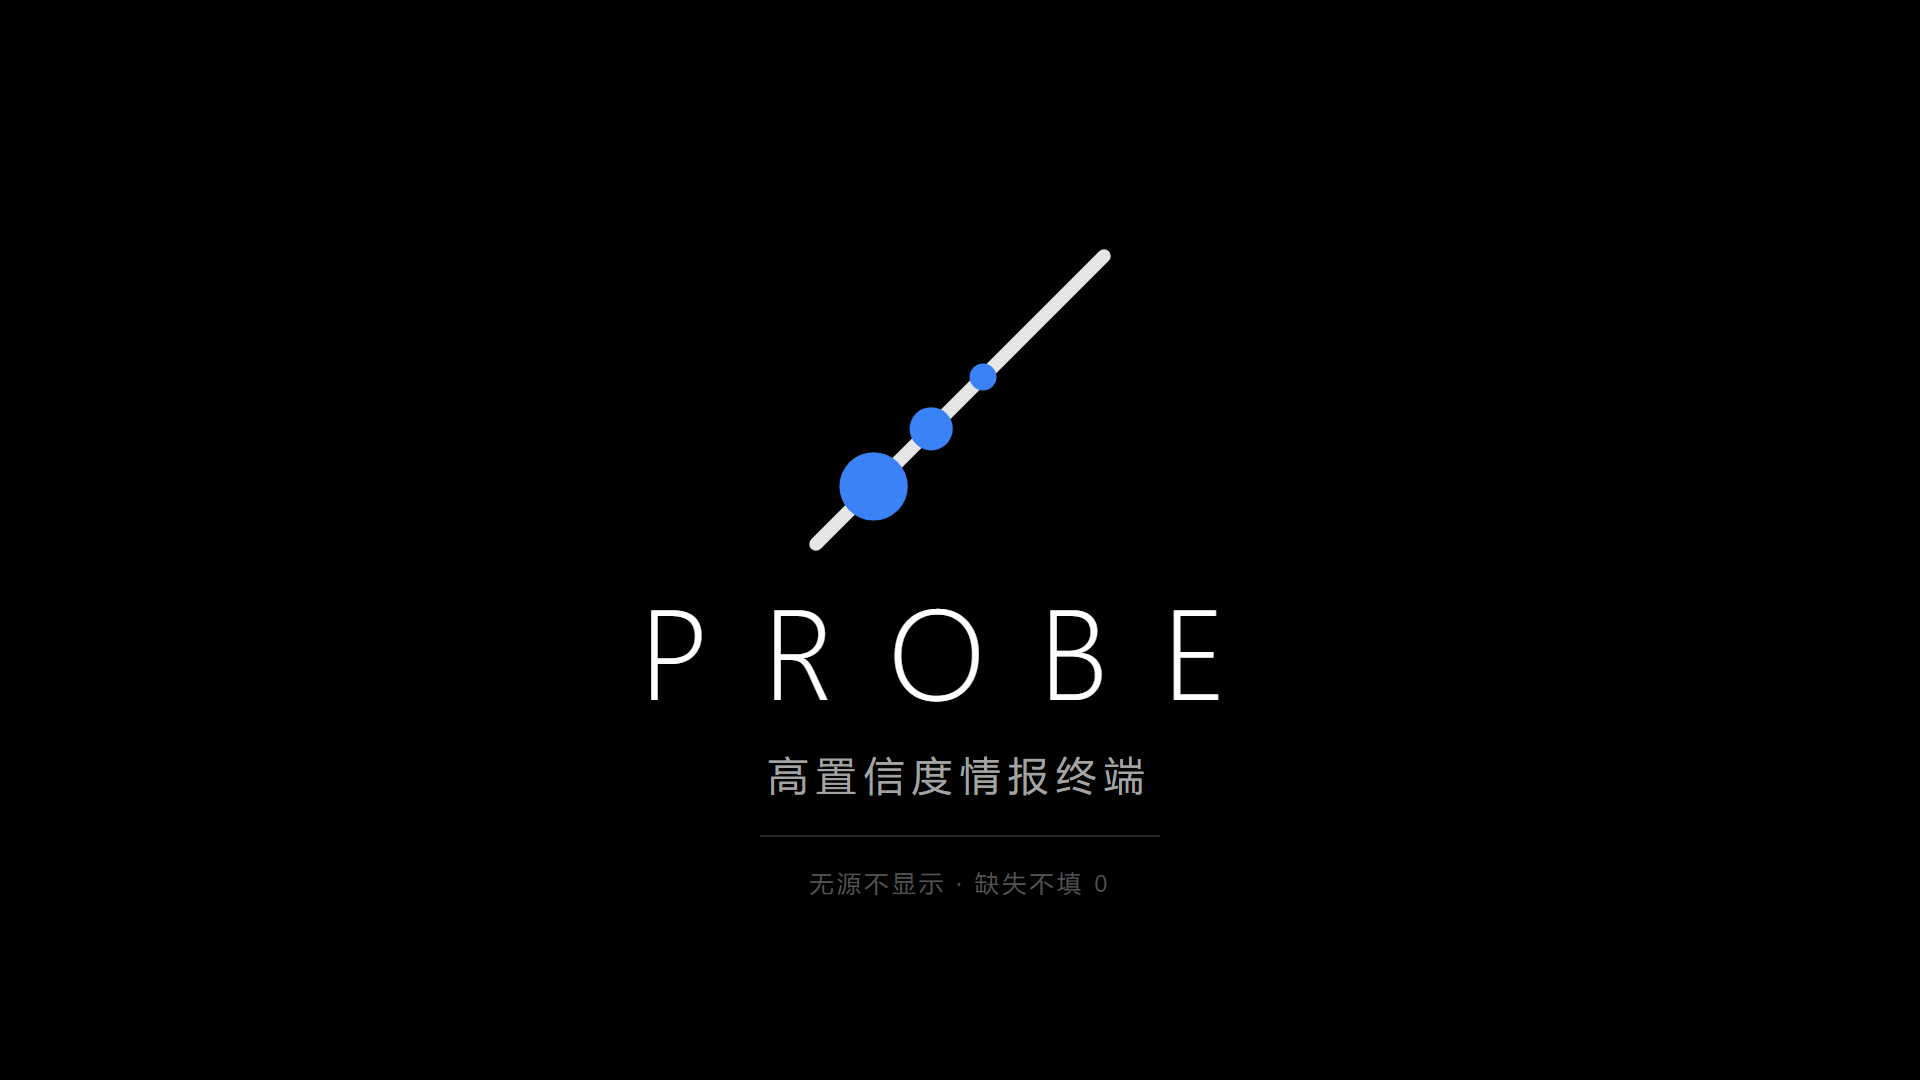
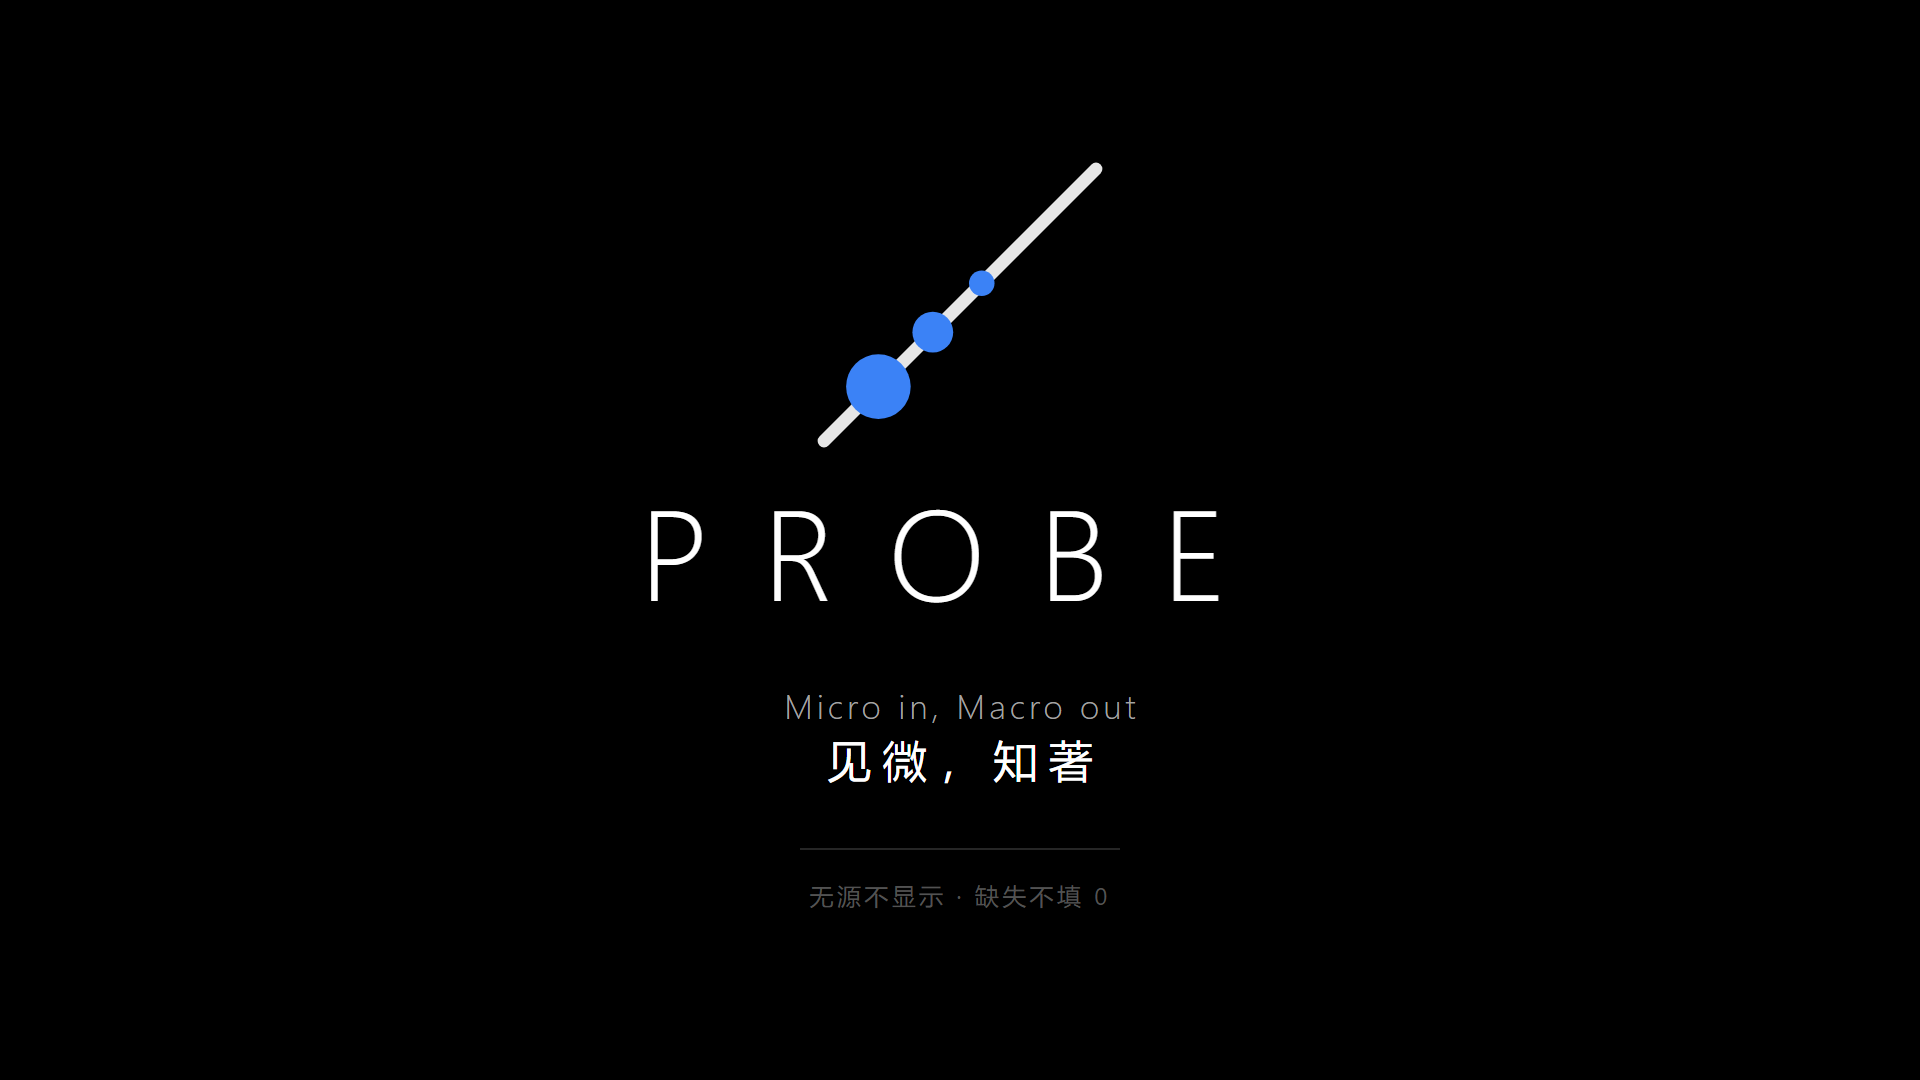
feat: 标语换成 Micro in, Macro out · 见微，知著
- 首页锁标下一行改成中英双语，字距分开调（拉丁 0.12em / 汉字 0.26em），
  汉字补等量负边距才真正居中；汉字取更亮的 neutral-500，因为主读者是中文
- ProbeLogo 的默认副标题同步，运行指标页跟着变
- docs/brand 九个比例全部重新生成：标语换成同一句，横幅整块做了垂直居中校正
  （渲染后量四边留白，再补 translate 微调：3:1 上 189/下 190）

diff --git a/src/components/Workspace.tsx b/src/components/Workspace.tsx
@@ -376,14 +376,22 @@ export default function Workspace({
           </button>
         </motion.div>
 
-        {/* 只在首页出现的一行标语：结果页顶栏里再放一句口号就成装饰了。 */}
+        {/* 只在首页出现的一行标语：结果页顶栏里再放一句口号就成装饰了。
+            中英各一句，间距按字宽分开调：拉丁句拉开 0.12em 就够，汉字在同一档里
+            会显得挤，配 0.26em；汉字尾部多出一个字距，补等量负边距才真正居中。 */}
         {!searched && (
           <motion.p
             layout
             transition={SPRING}
-            className="font-mono text-[11px] tracking-[0.18em] text-neutral-600"
+            className="flex flex-wrap items-center justify-center gap-x-3 gap-y-1.5 text-neutral-600"
           >
-            无源不显示 · 缺失不填 0
+            <span className="font-mono text-[11px] tracking-[0.12em] text-neutral-600">
+              Micro in, Macro out
+            </span>
+            <span aria-hidden className="h-3 w-px bg-neutral-800" />
+            {/* 汉字在 11px 上本来就比拉丁字母压得住，所以让它是两级里更亮的那个：
+                这里的主读者是中文，拉丁半句是呼应不是主角。 */}
+            <span className="-mr-[0.26em] text-[11px] tracking-[0.26em] text-neutral-500">见微，知著</span>
           </motion.p>
         )}
 

diff --git a/src/components/ProbeLogo.tsx b/src/components/ProbeLogo.tsx
@@ -110,7 +110,7 @@ export default function ProbeLogo({
   orientation = "horizontal",
   nodeColor = "#3b82f6",
   lineColor = "rgba(255,255,255,0.9)",
-  subtitle = "探针 · 高置信度情报终端",
+  subtitle = "Micro in, Macro out · 见微，知著",
   className,
 }: ProbeLogoProps) {
   const vertical = orientation === "vertical";
